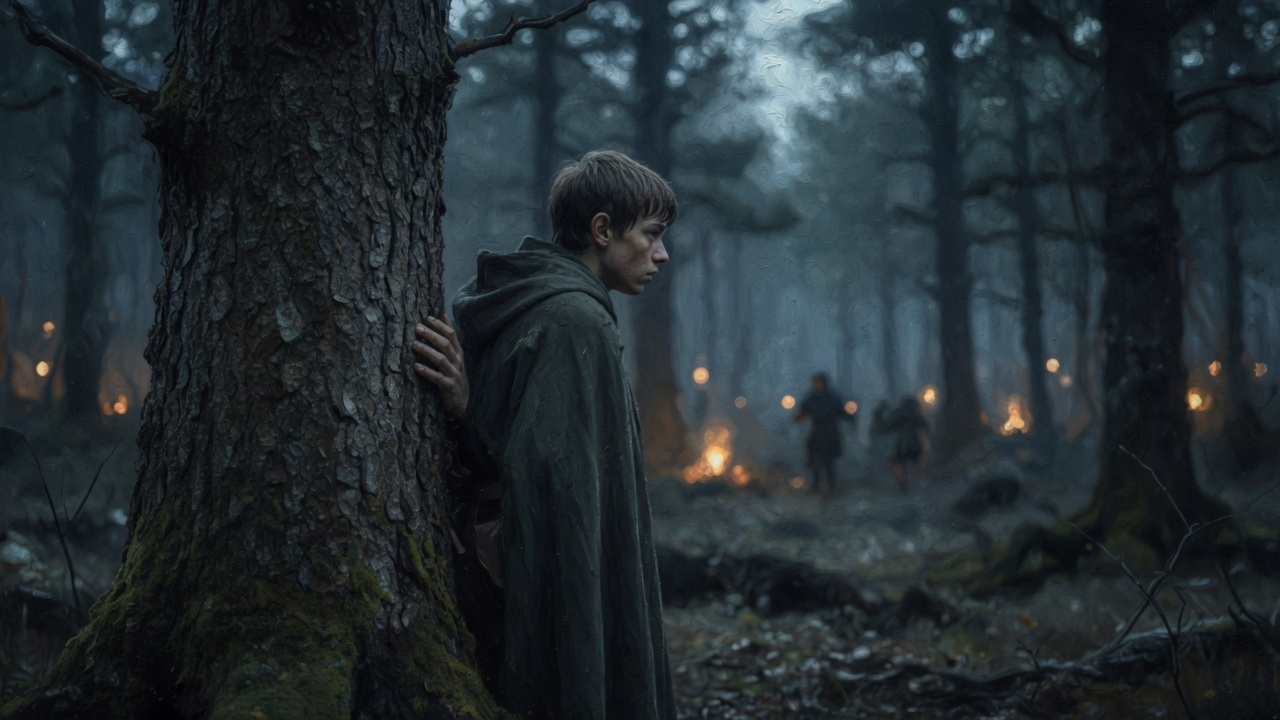
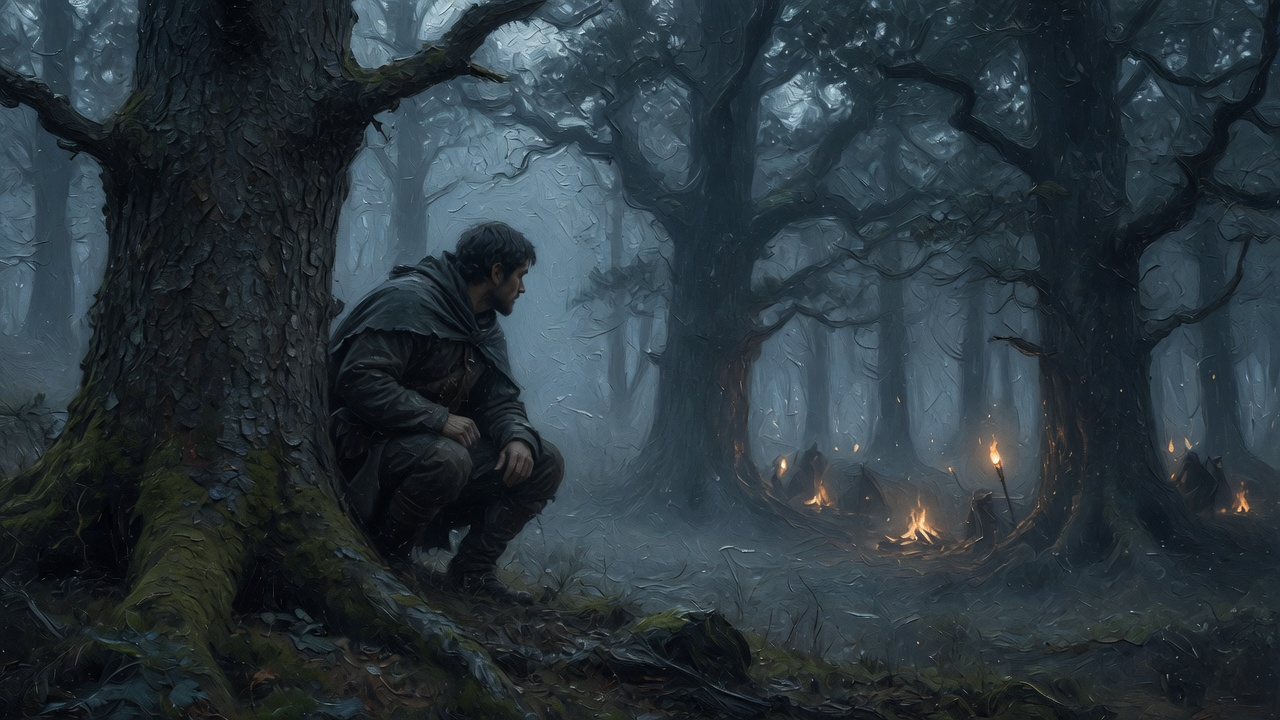
Fresh regenerations: scout, settlers campaign, cool monk
Drop Alamut and edit-chains. Scout rebuilt as left-frame hide looking
into distant fires (falconer composition). Campaign uses settlers on
war-scarred river country. Monk regenerated cool impasto without
god-ray poster lighting.

diff --git a/src/content/docs/campaign-setup.md b/src/content/docs/campaign-setup.md
@@ -7,7 +7,7 @@ description: Storyteller work before characters exist — seeds, worldbuilding, 
 > — Statius
 
 <figure class="kod-breath not-content">
-<img src="/scenes/alamut.jpg" alt="" width="1280" height="720" loading="lazy" decoding="async" />
+<img src="/scenes/settlers.jpg" alt="" width="1280" height="720" loading="lazy" decoding="async" />
 </figure>
 
 ----------
